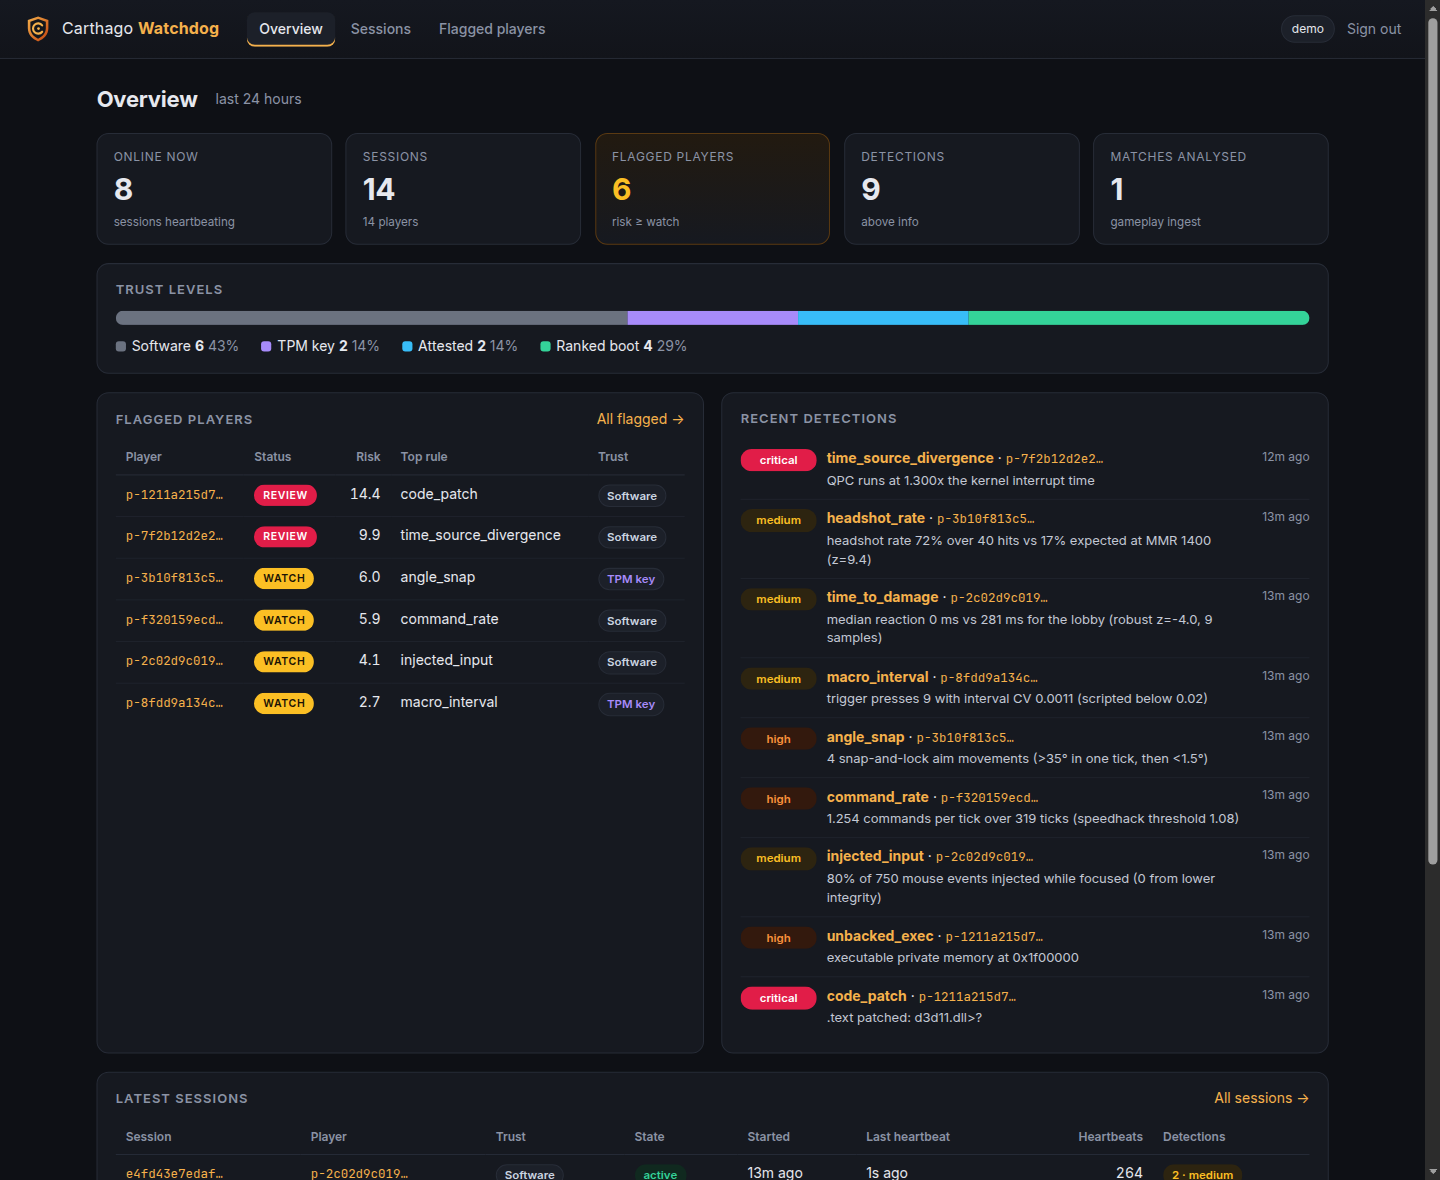
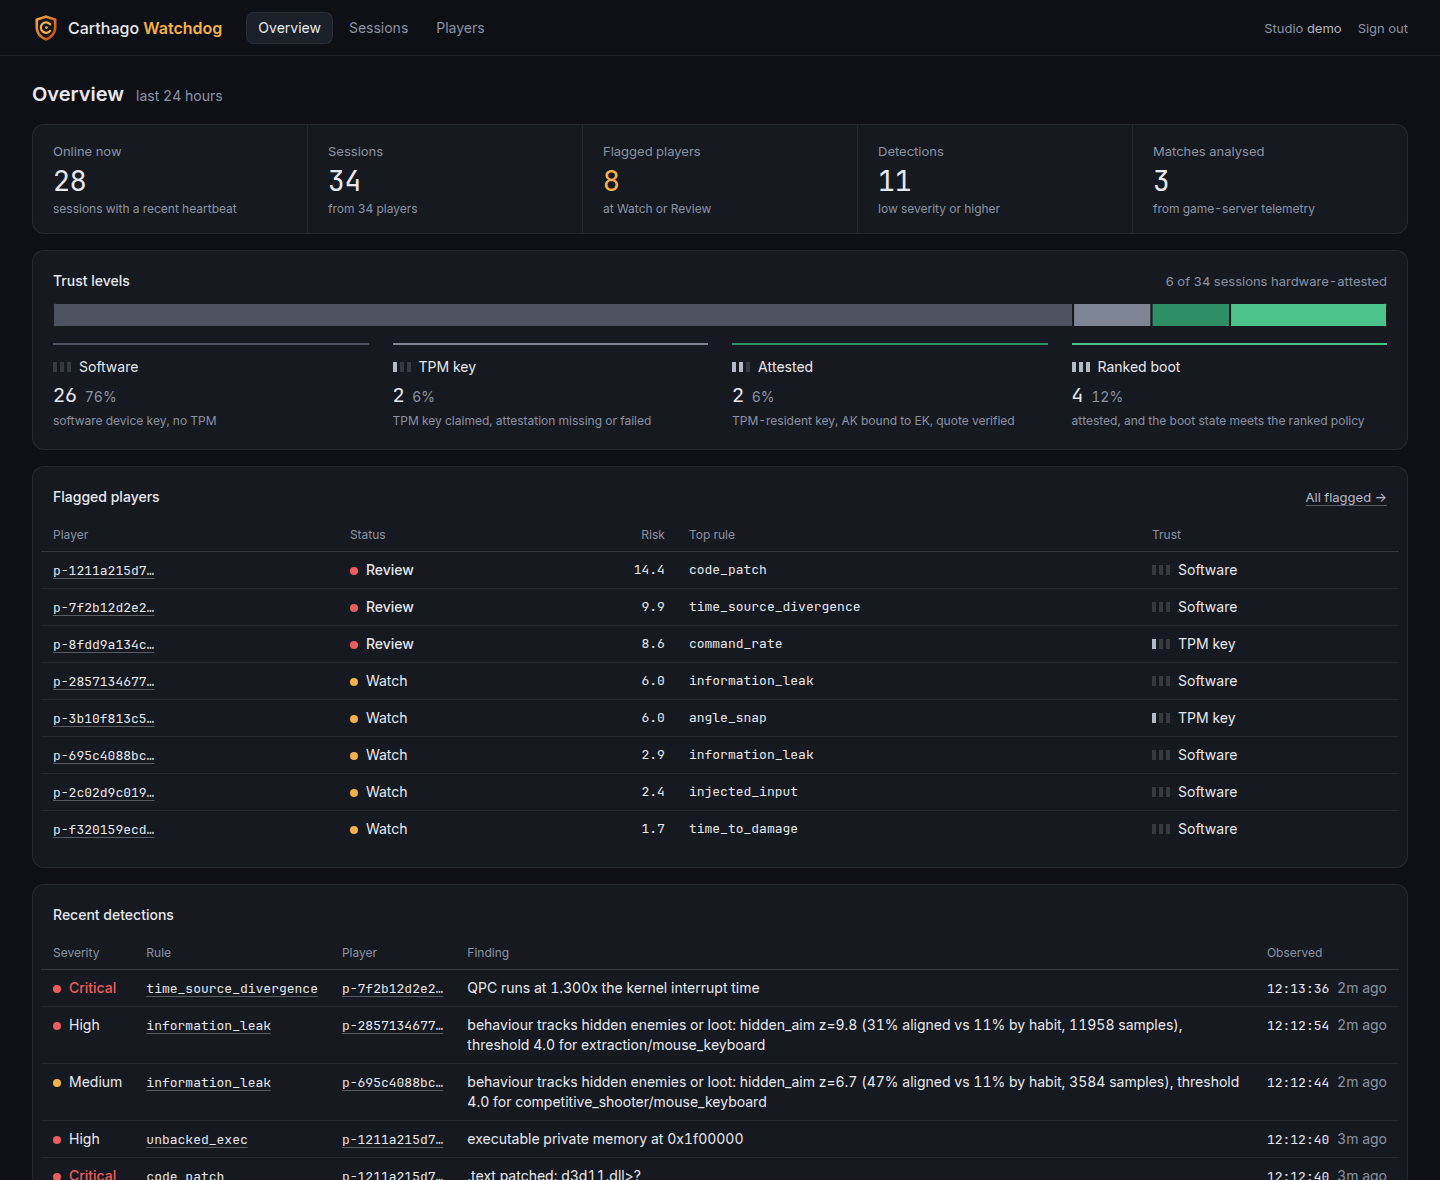
docs: refresh the dashboard screenshot

diff --git a/README.md b/README.md
@@ -23,7 +23,7 @@ for the missing kernel access in four ways:
 ![Carthago Watchdog studio dashboard](docs/images/dashboard-overview.png)
 
 <sub>The studio dashboard with synthetic demo traffic: live sessions by trust level, flagged
-players ranked by risk, and the evidence behind each detection.</sub>
+players ranked by risk, and the latest detections with the finding behind each one.</sub>
 
 ---
 
